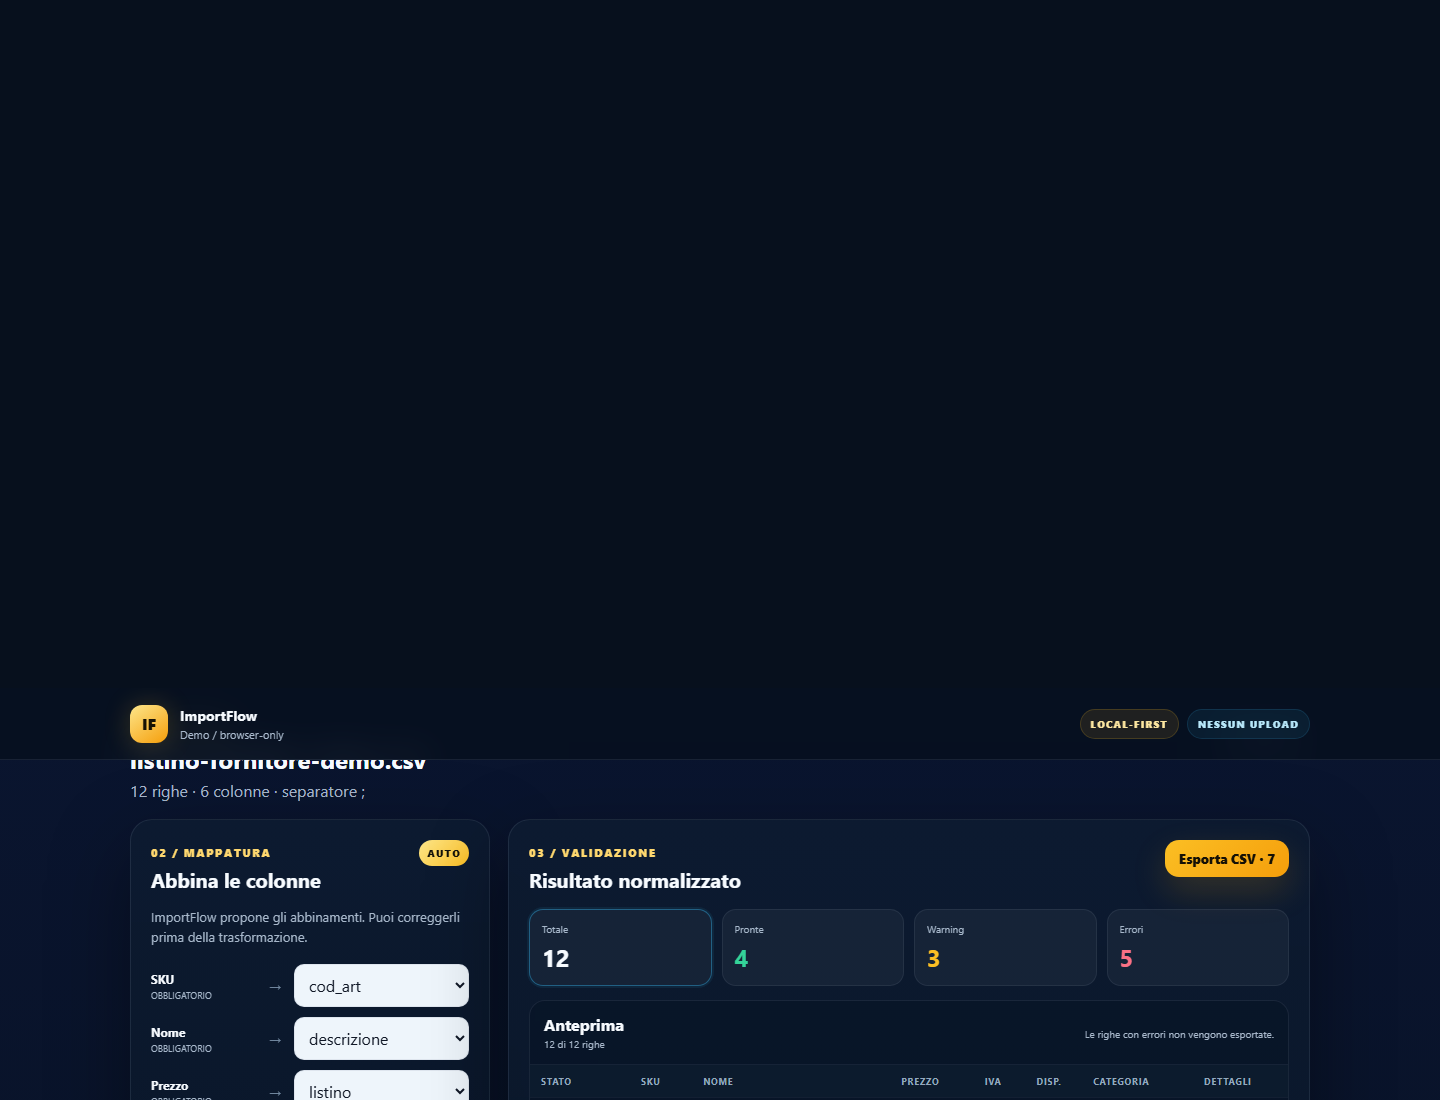
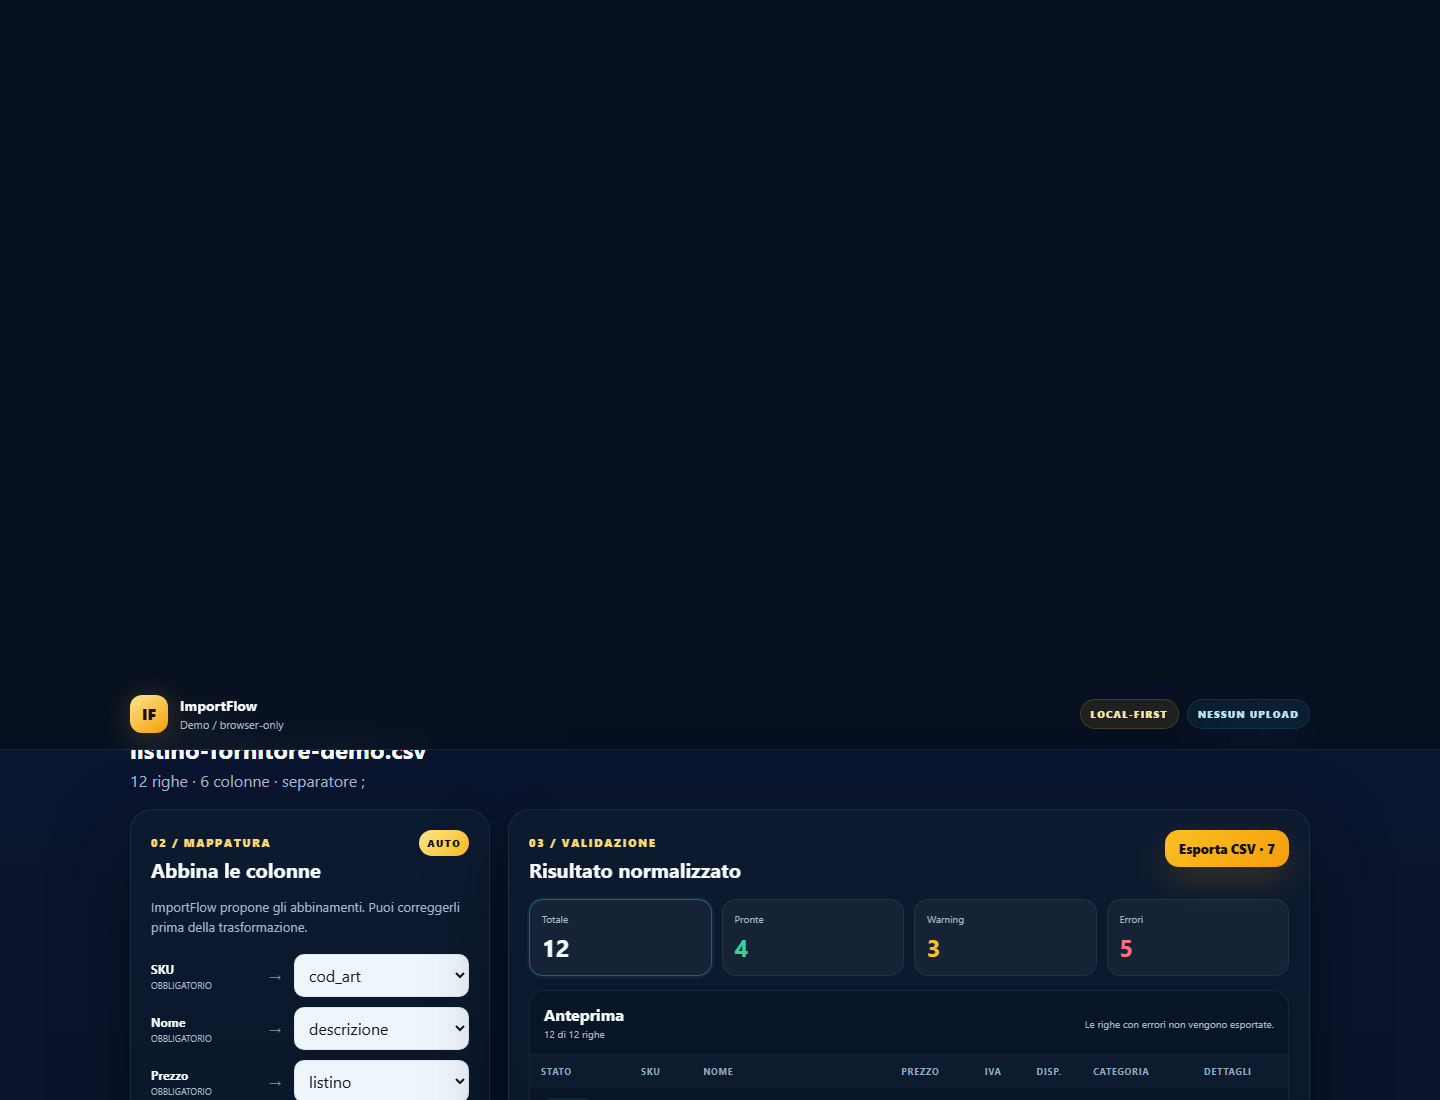
Refresh ImportFlow portfolio preview

diff --git a/index.html b/index.html
@@ -154,7 +154,7 @@
               </article>
               <article class="project-slide back" data-index="3">
                 <div class="slide-window-bar"><div><span></span><span></span><span></span></div><small>ago993.github.io / importflow-demo</small></div>
-                <img src="assets/importflow.png?v=51da8f9" alt="Anteprima di ImportFlow" draggable="false">
+                <img src="assets/importflow.png?v=279ac85" alt="Anteprima di ImportFlow" draggable="false">
               </article>
             </div>
             <div class="showcase-controls">
